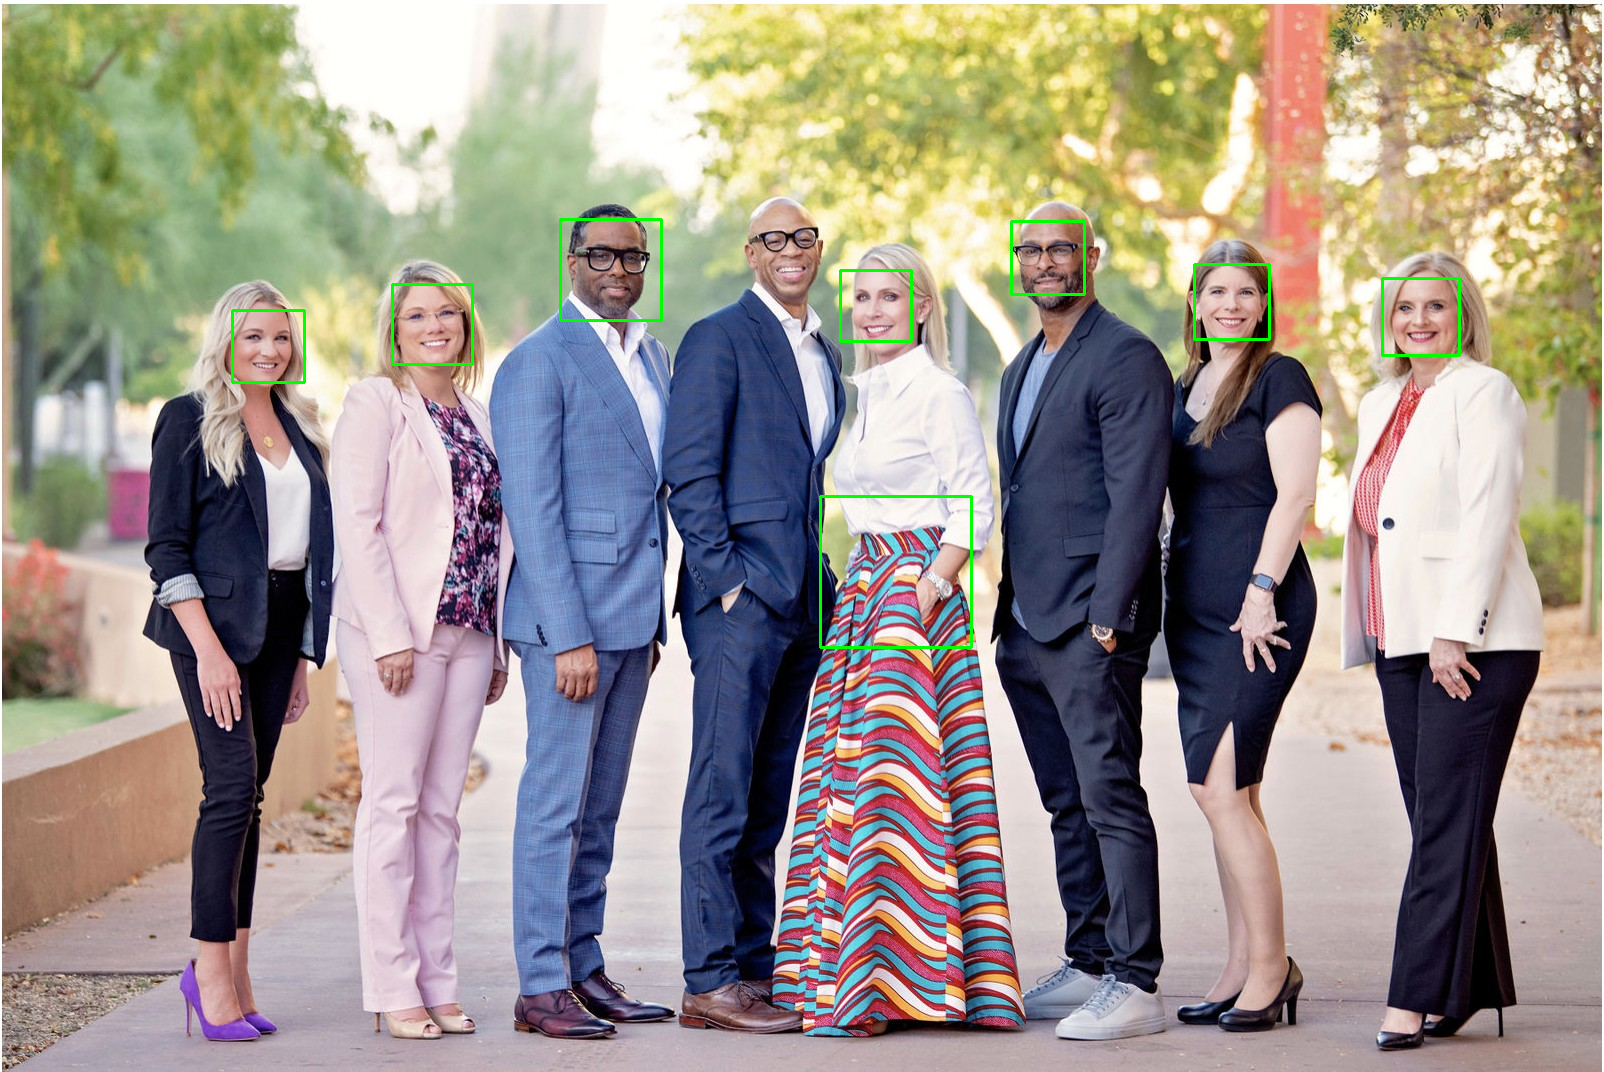
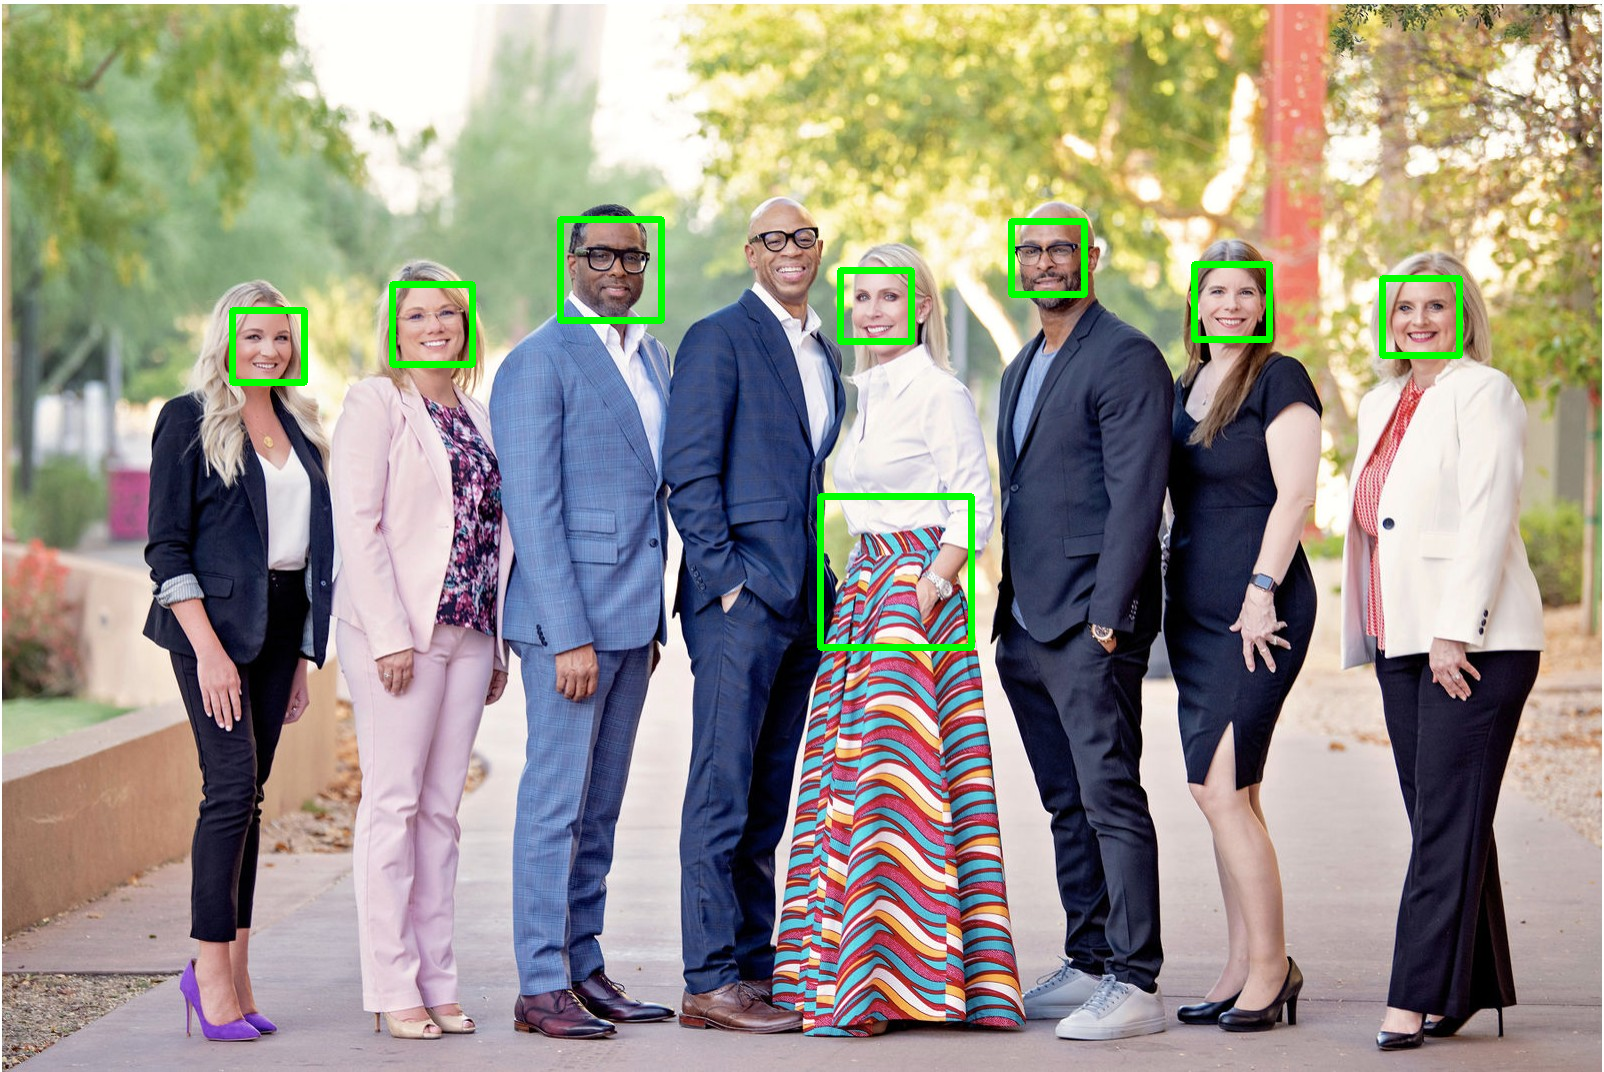
add scaling

diff --git a/src/app/main.py b/src/app/main.py
@@ -27,9 +27,10 @@ app.add_middleware(
 )
 
 def detect(image, name):
-    # insert_image_to_db(name)
+    # convert image to grayscale
     gray = cv2.cvtColor(image , cv2.COLOR_BGR2GRAY)
 
+    # create the cascade and initialize it with our face cascade. This loads the face cascade into memory
     faceCascade = cv2.CascadeClassifier(cv2.data.haarcascades + "haarcascade_frontalface_default.xml")
     faces = faceCascade.detectMultiScale(
         gray,
@@ -38,12 +39,13 @@ def detect(image, name):
         minSize=(30, 30)
     )
 
+    # Draw a rectangle around the faces
     for (x, y, w, h) in faces:
-        cv2.rectangle(image, (x, y), (x + w, y + h), (0, 255, 0), 2)
-        roi_color = image[y:y + h, x:x + w]
-        # cv2.imwrite(str(w) + str(h) + '_faces.png', roi_color)
-    add = PATH + f'/resources/output/{name.split(".")[0]}_output.png'
-    cv2.imwrite(add, image)
+        cv2.rectangle(image, (x, y), (x + w, y + h), (0, 255, 0), 5)
+
+    # save result    
+    address = PATH + f'/resources/output/{name.split(".")[0]}_output.png'
+    cv2.imwrite(address, image)
 
     return(faces.tolist())
 
@@ -67,7 +69,10 @@ async def read_images(skip: int = 0, take: int = 20):
 
 @app.get("/images/{image_id}/", response_model=Image, status_code = status.HTTP_200_OK)
 async def read_images(image_id: int):
+    
     query = images.select().where(images.c.id == image_id)
+    if query is None:
+        raise DataError
     return await database.fetch_one(query)
 
 @app.post("/images/", response_model=Image, status_code = status.HTTP_201_CREATED)
@@ -87,7 +92,7 @@ async def delete_image(image_id: int):
     query = images.select().where(images.c.id == image_id)
     res = await database.fetch_one(query)
     add = res["address"]
-    os.remove(add)
+    # os.remove(add)
 
     query = images.delete().where(images.c.id == image_id)
     await database.execute(query)
@@ -130,4 +135,4 @@ async def get_result(image_id: int):
     return StreamingResponse(io.BytesIO(im_png.tobytes()), media_type="image/png")
 
 if __name__ == '__main__':
-    uvicorn.run("src.app.main:app",host='0.0.0.0', port=8000, reload=True, debug=True)
+    uvicorn.run("src.app.main:app",host='0.0.0.0', port=5000, reload=True, debug=True)

diff --git a/README.md b/README.md
@@ -2,19 +2,17 @@
 ## What does this script do?
 Its a service implemented by fast API and python opencv to detect faces in one given image
 
-We test it with fast API and Swagger
+Tested with fast API and Swagger
 
-Pushed to docker hub and you can easily pull it from docker hub and enjoy!
 
 ## How to run
-1. run `docker-compose up`
+1. run `docker-compose -f solution/docker-compose.yml up `
 
 2. then open `http://127.0.0.1:8008/docs#/` in your browser
 
 3. choose file in /detect_with_image/ or put your image on input folder and enter image relative path (start after /app/) in /detect_with_path/{imagePath:path} API and see the last result in /result/ 
 (you can use images in test folder to test)
 
-you can see inside of DB by `docker-compose exec db psql --username=fastapi_traefik --dbname=postgres`
 ## What did we use?
 python3.8,
 opencv,
